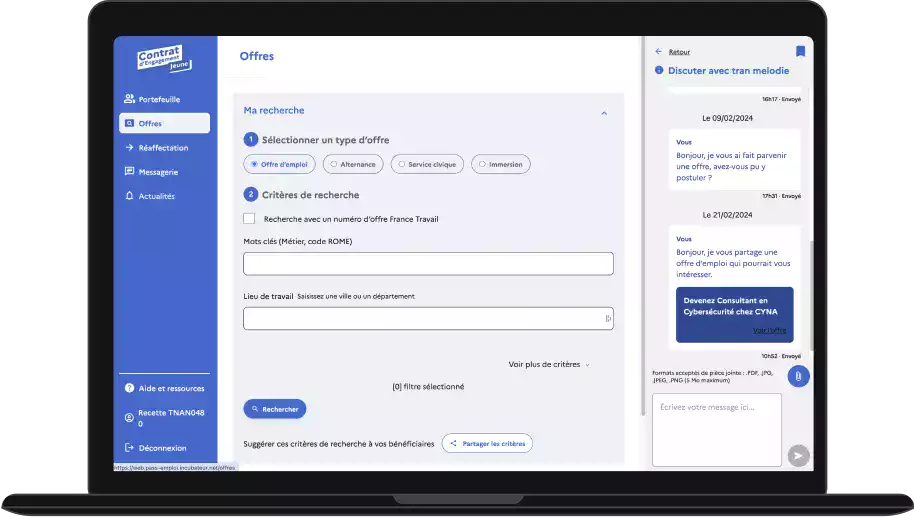
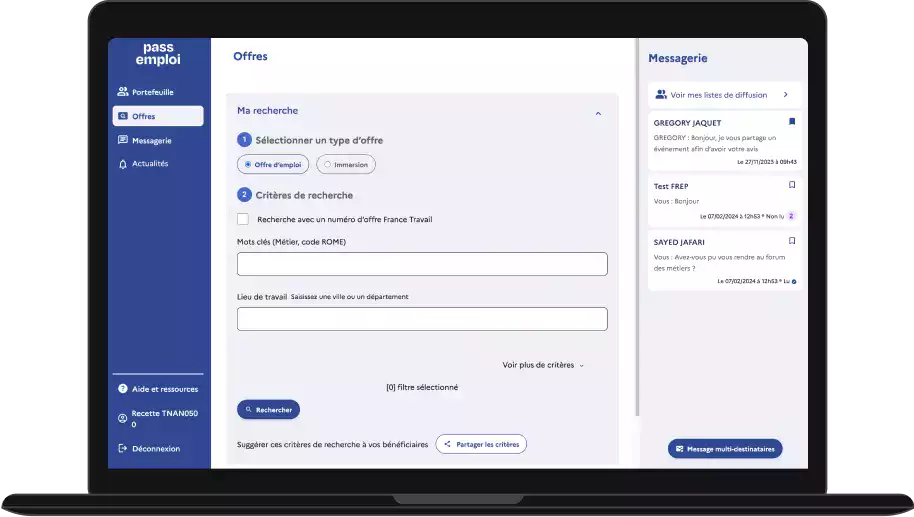
feat(us-2369): fix screen brsa

Changed region(s): [[0.0919, 0.0619, 0.8884, 0.9284], [0.5514, 0.6809, 0.6433, 0.7118], [0.4289, 0.7427, 0.5208, 0.7737]]

diff --git a/components/onboarding/OnboardingPEModal.tsx b/components/onboarding/OnboardingPEModal.tsx
@@ -4,7 +4,7 @@ import React, { MouseEvent, ReactNode, useRef, useState } from 'react'
 import onboardingMessagerieBRSA from 'assets/images/onboarding_messagerie_brsa.webp'
 import onboardingMessagerie from 'assets/images/onboarding_messagerie_pole-emploi.webp'
 import onboardingOffres from 'assets/images/onboarding_offres_pole-emploi.webp'
-import onboardingOffresBRSA from 'assets/images/onboarding_offres_pole-emploi.webp'
+import onboardingOffresBRSA from 'assets/images/onboarding_offres_brsa.webp'
 import onboardingPortefeuilleBRSA from 'assets/images/onboarding_portefeuille_brsa.webp'
 import onboardingPortefeuille from 'assets/images/onboarding_portefeuille_pole-emploi.webp'
 import Modal from 'components/Modal'

diff --git a/app/(connected)/(with-sidebar)/(with-chat)/(index)/page.tsx b/app/(connected)/(with-sidebar)/(with-chat)/(index)/page.tsx
@@ -36,7 +36,7 @@ export default async function Home({
   const redirectUrl =
     searchParams?.redirectUrl ?? '/mes-jeunes' + sourceQueryParam
 
-  const afficherModaleOnboarding = Boolean(searchParams?.onboarding)
+  const afficherModaleOnboarding = true
   const emailEstManquant = estMilo(conseiller) && !conseiller.email
   const agenceEstManquante =
     !estPassEmploi(conseiller) && !aEtablissement(conseiller)
